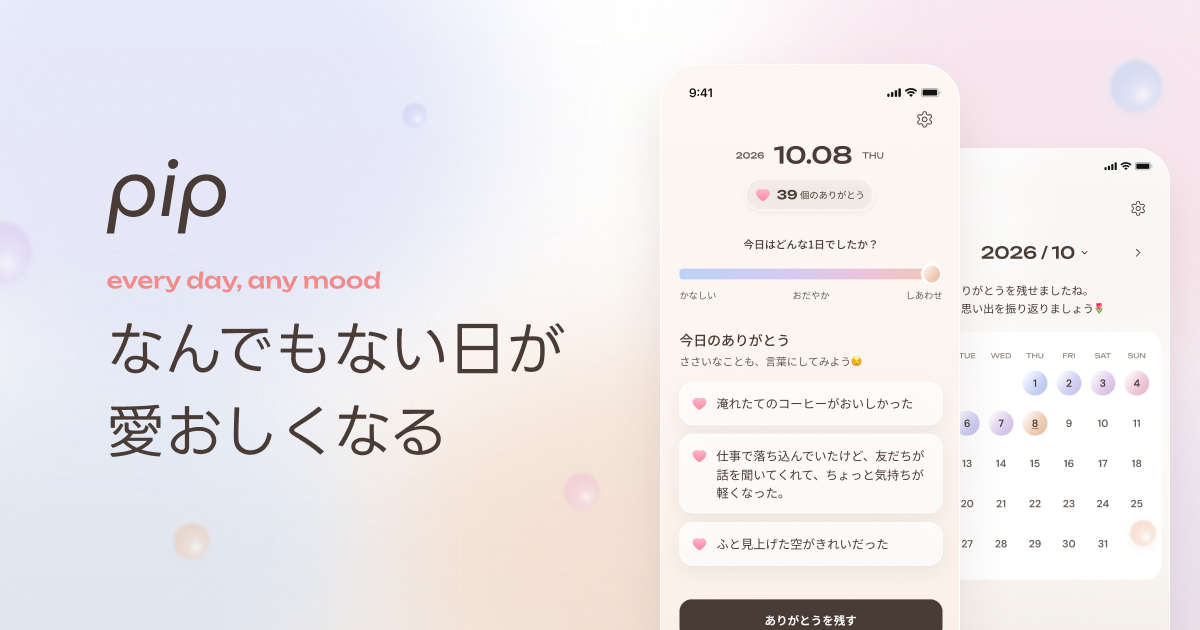
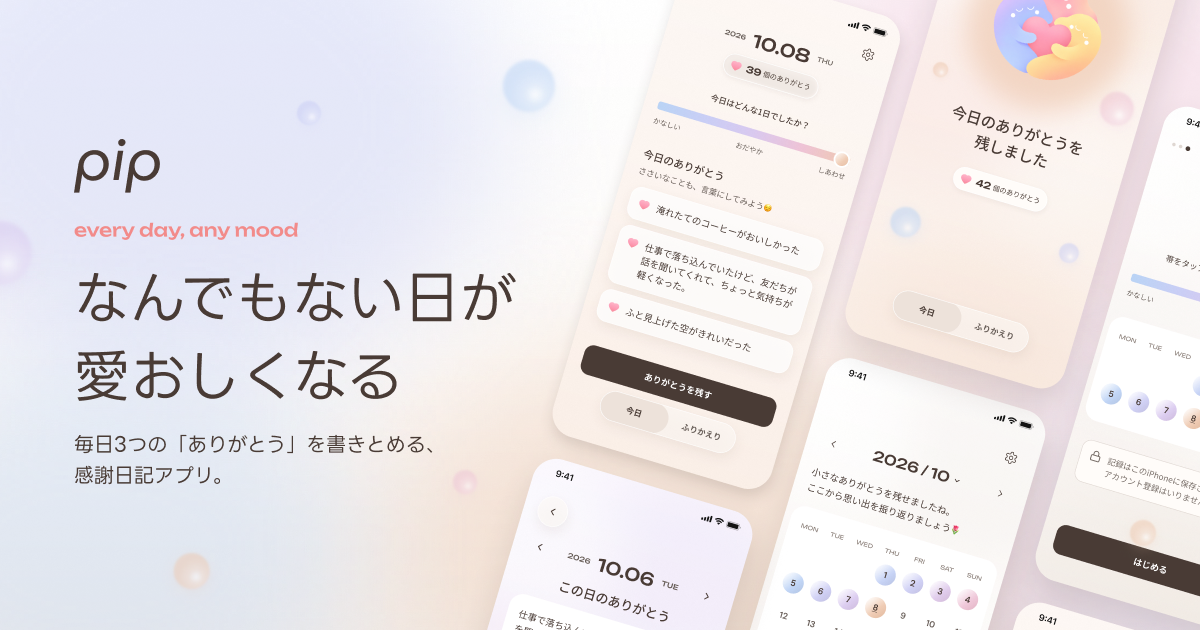
Use final OGP image

diff --git a/index.html b/index.html
@@ -10,7 +10,7 @@
   <meta property="og:title" content="pip｜毎日3つの「ありがとう」を書きとめるアプリ">
   <meta property="og:description" content="pipは、毎日3つの「ありがとう」を書きとめるiPhoneアプリです。">
   <meta property="og:url" content="https://pip-diary.com/">
-  <meta property="og:image" content="https://pip-diary.com/ogp.png">
+  <meta property="og:image" content="https://pip-diary.com/ogp.png?v=20261016-2">
   <meta property="og:image:width" content="1200">
   <meta property="og:image:height" content="630">
   <meta property="og:image:alt" content="pip なんでもない日が愛おしくなる。毎日3つの「ありがとう」を書きとめるアプリの画面">

diff --git a/privacy/index.html b/privacy/index.html
@@ -9,7 +9,7 @@
   <meta property="og:title" content="プライバシーポリシー | pip">
   <meta property="og:description" content="pipのプライバシーポリシー">
   <meta property="og:url" content="https://pip-diary.com/privacy/">
-  <meta property="og:image" content="https://pip-diary.com/ogp.png">
+  <meta property="og:image" content="https://pip-diary.com/ogp.png?v=20261016-2">
   <meta property="og:image:width" content="1200">
   <meta property="og:image:height" content="630">
   <meta property="og:image:alt" content="pip なんでもない日が愛おしくなる。毎日3つの「ありがとう」を書きとめるアプリの画面">

diff --git a/support/index.html b/support/index.html
@@ -9,7 +9,7 @@
   <meta property="og:title" content="よくある質問 | pip">
   <meta property="og:description" content="pipのよくある質問">
   <meta property="og:url" content="https://pip-diary.com/support/">
-  <meta property="og:image" content="https://pip-diary.com/ogp.png">
+  <meta property="og:image" content="https://pip-diary.com/ogp.png?v=20261016-2">
   <meta property="og:image:width" content="1200">
   <meta property="og:image:height" content="630">
   <meta property="og:image:alt" content="pip なんでもない日が愛おしくなる。毎日3つの「ありがとう」を書きとめるアプリの画面">
